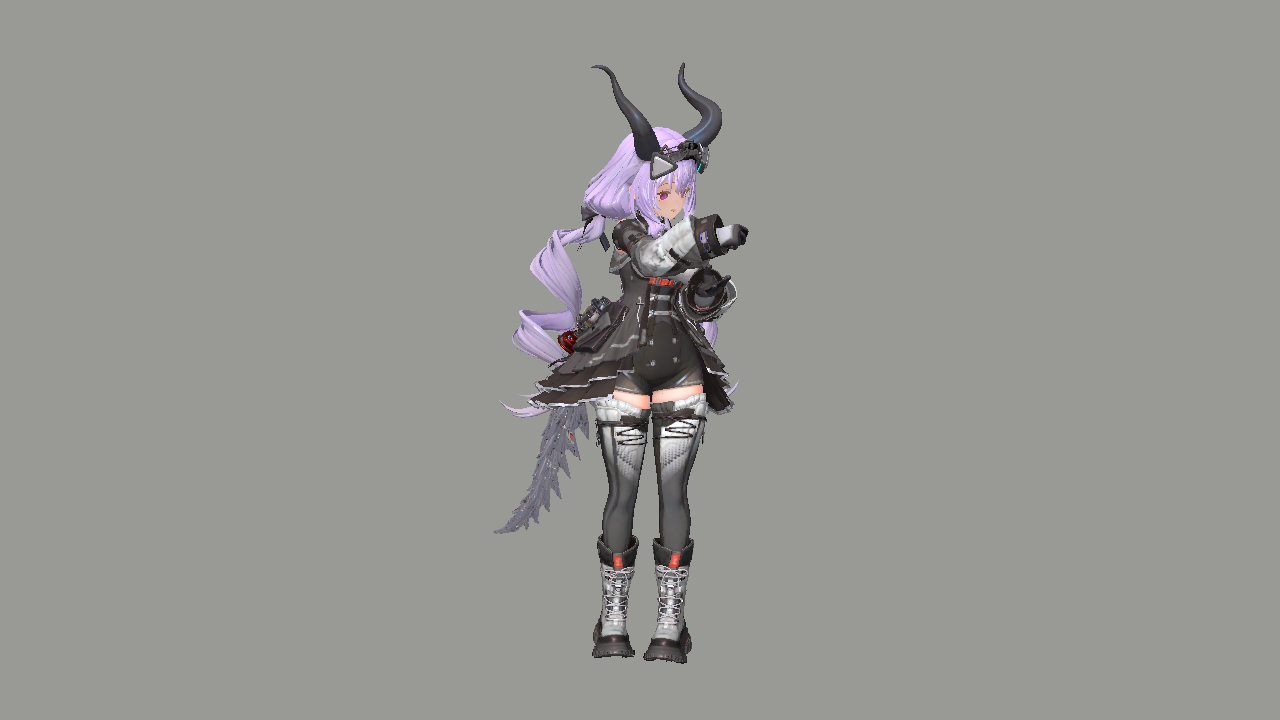
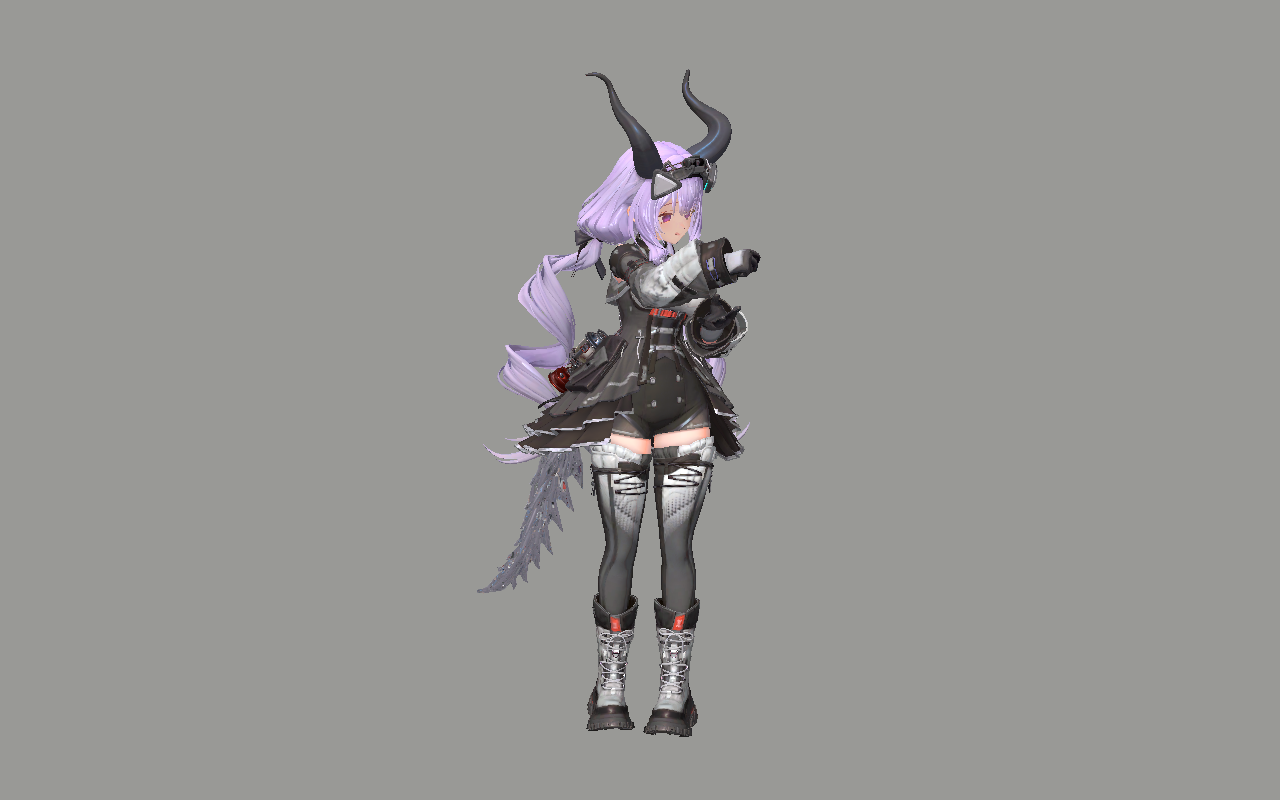
fix(endfield): render M5 pose gate at captured aspect

Changed region(s): [[0.375, 0.0917, 0.5938, 0.9167], [0.4688, 0.0917, 0.5, 0.1528]]

diff --git a/Assets/EndfieldShaderPack/Editor/EndfieldPoseApplyValidation.cs b/Assets/EndfieldShaderPack/Editor/EndfieldPoseApplyValidation.cs
@@ -13,7 +13,8 @@
 //        and |x| within [0.05, 0.45] (book held in front of chest)
 //   (world == capture model coords once pose is pre-multiplied by
 //    inverse(armature.localToWorldMatrix); char root sits at origin)
-//   render: Validation/pose-apply-01/pose-applied.png (1280x720)
+//   G3: captured camera position/FOV/aspect within fixed 0.001 tolerance
+//   render: Validation/pose-apply-01/pose-applied.png (1280x800, captured 1.6 aspect)
 //   report: Validation/pose-apply-01/pose-apply-report.json
 using System;
 using System.Collections.Generic;
@@ -31,7 +32,10 @@ namespace EndfieldShaderPack.EditorTools
         const string PosePath = "Validation/Captures/tifuluosi-front-20260917/pose-full-01/pose_apply.txt";
         const string OutDir = "Validation/pose-apply-01";
         const int Width = 1280;
-        const int Height = 720;
+        const int Height = 800;
+        const float ExpectedFov = 35f;
+        const float CameraGateTolerance = 0.001f;
+        static readonly Vector3 ExpectedCameraPosition = new Vector3(0f, 0.8438638f, 3.1107457f);
 
         public static void RunPoseApply()
         {
@@ -146,12 +150,27 @@ namespace EndfieldShaderPack.EditorTools
 
             var camera = Camera.main;
             if (camera == null) throw new InvalidOperationException("No main camera in scene.");
+            // The captured target is 2560x1600 (aspect 1.6). The previous 1280x720
+            // validation silently rendered at 16:9, so it could not be used for M5
+            // pixel alignment even though the pose-only bone gates passed.
+            camera.aspect = Width / (float)Height;
+            float cameraPositionError = Vector3.Distance(camera.transform.position, ExpectedCameraPosition);
+            float cameraFovError = Mathf.Abs(camera.fieldOfView - ExpectedFov);
+            float cameraAspectError = Mathf.Abs(camera.aspect - 1.6f);
+            bool g3 = cameraPositionError <= CameraGateTolerance
+                && cameraFovError <= CameraGateTolerance
+                && cameraAspectError <= CameraGateTolerance;
+            report.Add(string.Format(CultureInfo.InvariantCulture,
+                "camera: pos=({0:F7},{1:F7},{2:F7}), fov={3:F4}, aspect={4:F4}, posErr={5:E3}, fovErr={6:E3}, aspectErr={7:E3}",
+                camera.transform.position.x, camera.transform.position.y, camera.transform.position.z,
+                camera.fieldOfView, camera.aspect, cameraPositionError, cameraFovError, cameraAspectError));
             RenderPng(camera, Path.Combine(OutDir, "pose-applied.png"));
 
-            bool pass = g1 && g2l && g2r;
+            bool pass = g1 && g2l && g2r && g3;
             string json = "{\"gate_head_y\":" + (g1 ? "true" : "false")
                 + ",\"gate_lhand\":" + (g2l ? "true" : "false")
                 + ",\"gate_rhand\":" + (g2r ? "true" : "false")
+                + ",\"gate_camera\":" + (g3 ? "true" : "false")
                 + ",\"pass\":" + (pass ? "true" : "false")
                 + ",\"notes\":[" + string.Join(",", report.ConvertAll(s => "\"" + s + "\"").ToArray()) + "]"
                 + ",\"preApply\":[" + string.Join(",", preJson.ToArray()) + "]"
